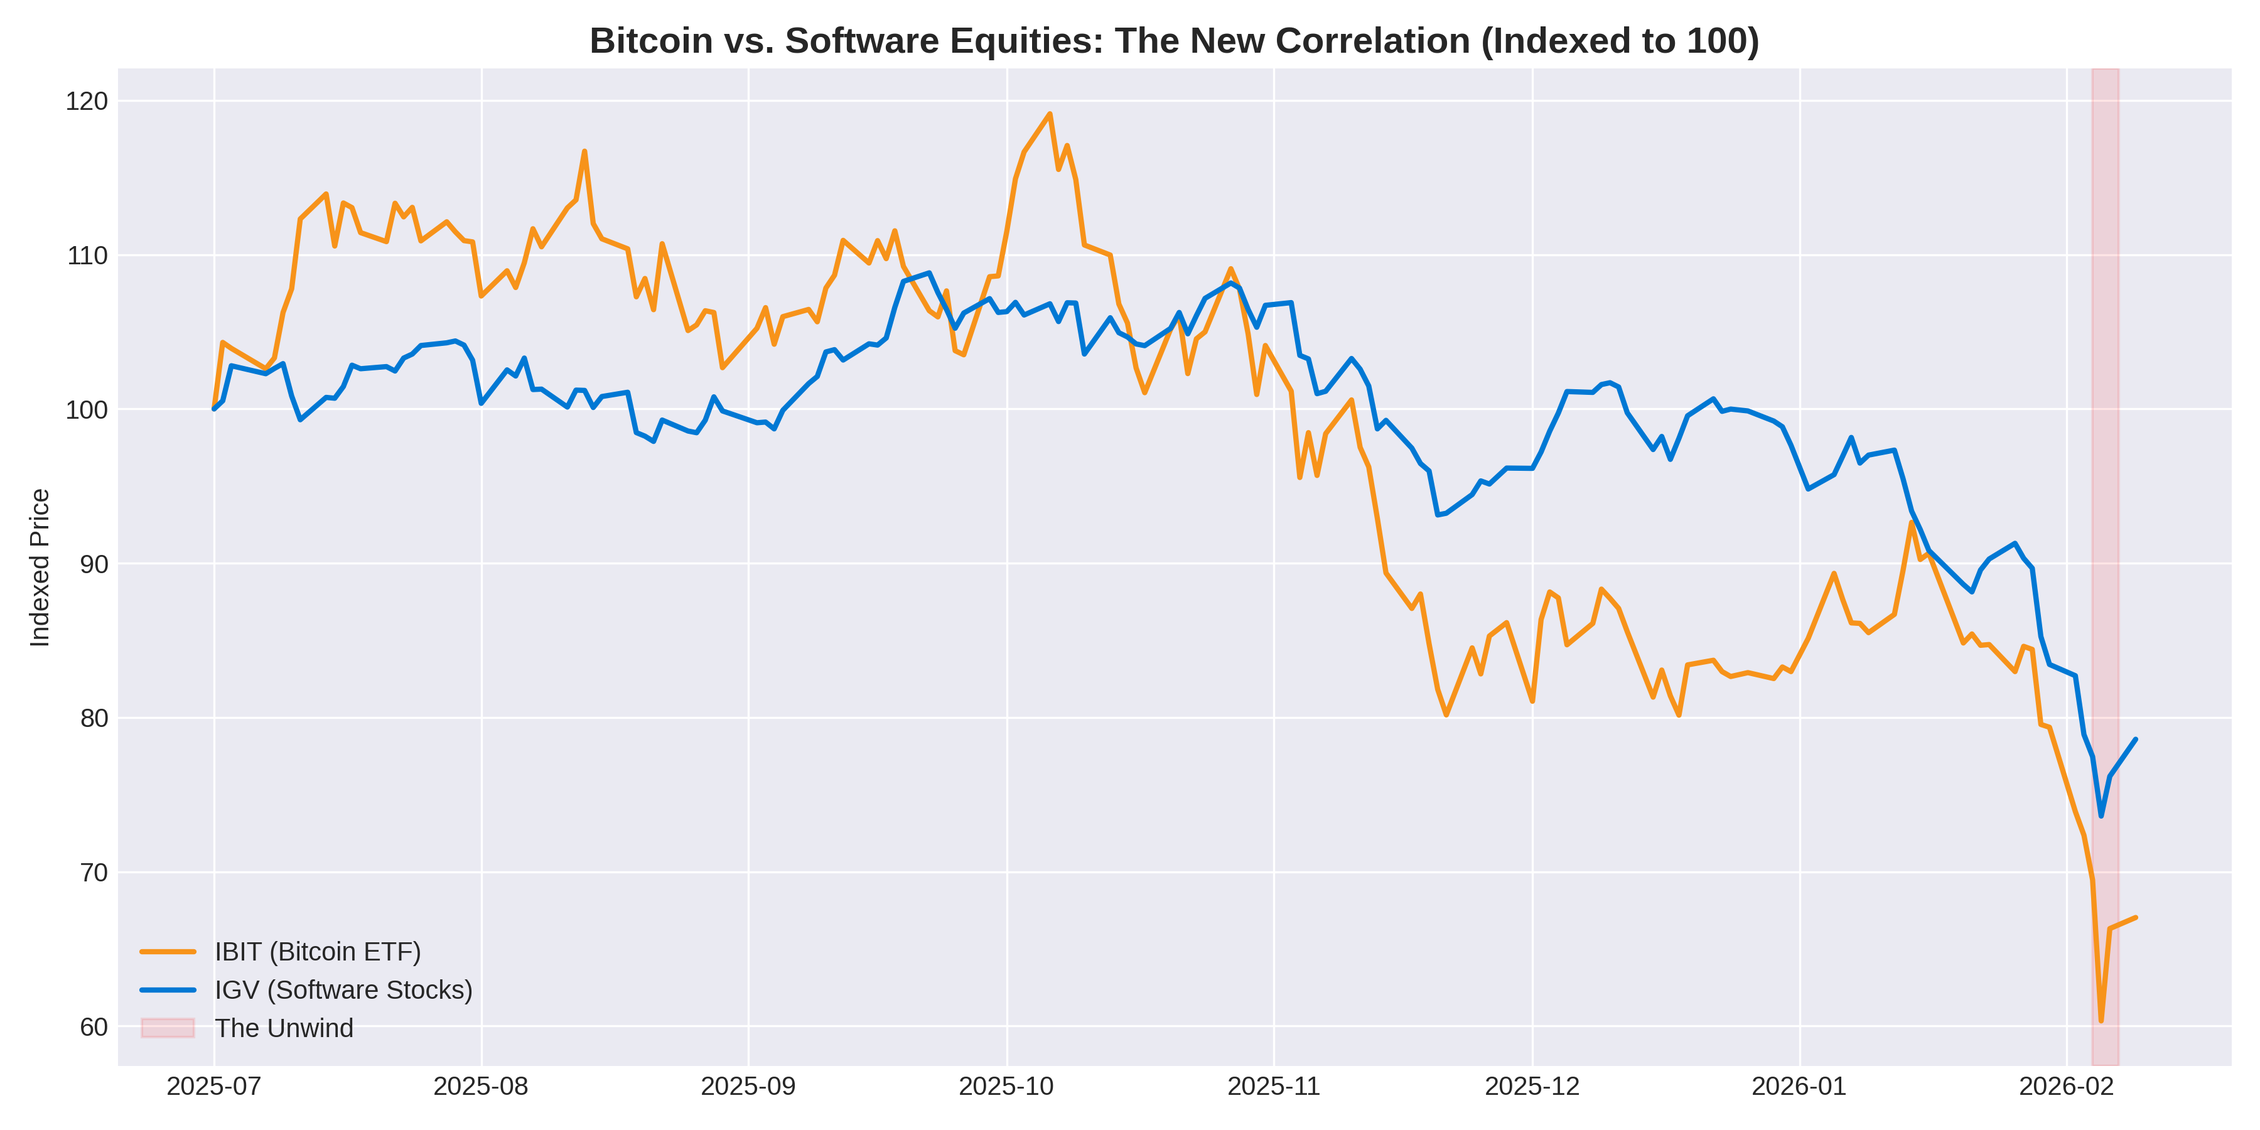
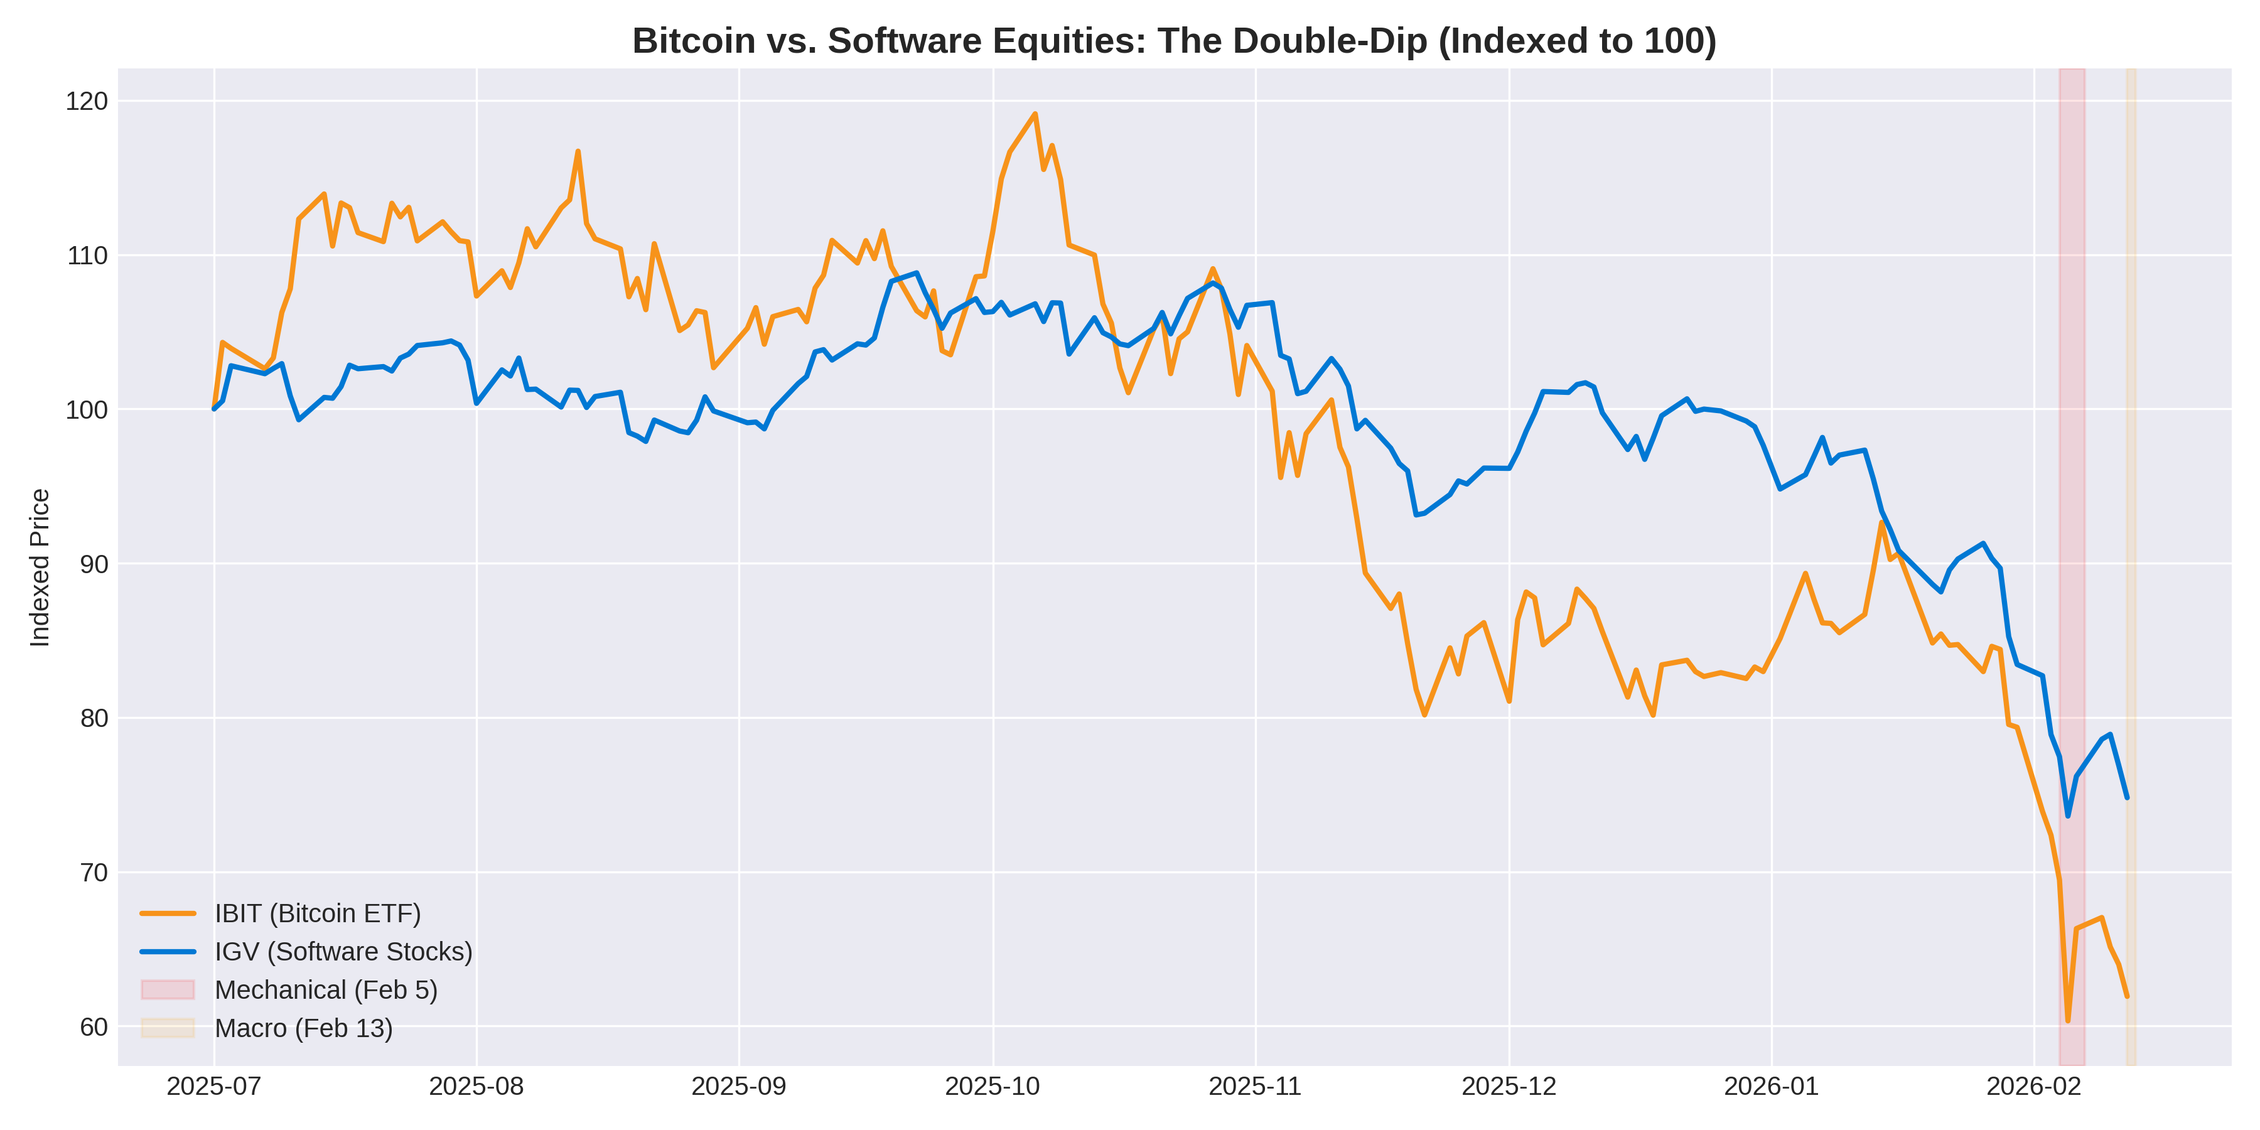
feat: Implement deep dive analysis and charts for Bitcoin's "double-dip" crash, distinguishing mechanical plumbing failures from systemic liquidity crises.

diff --git a/BitcoinCrash/generate_charts_deep.py b/BitcoinCrash/generate_charts_deep.py
@@ -1,0 +1,103 @@
+import yfinance as yf
+import pandas as pd
+import matplotlib.pyplot as plt
+import os
+import numpy as np
+from datetime import datetime
+
+# Setup
+ASSETS_DIR = "assets"
+os.makedirs(ASSETS_DIR, exist_ok=True)
+
+# Tickers
+# BTC-USD: Spot
+# BTCG26.CME: Feb 2026 Futures
+# BTC=F: Continuous Futures
+# IBIT: ETF
+# VIX: Volatility Index
+# IGV: Software Stocks
+tickers = ["BTC-USD", "BTCG26.CME", "BTC=F", "IBIT", "^VIX", "IGV"]
+start_date = "2025-12-01"
+end_date = "2026-02-14" # Extended to capture Feb 13
+
+def fetch_data():
+    print(f"Fetching deep data for {tickers}...")
+    data = {}
+    for t in tickers:
+        df = yf.download(t, start=start_date, end=end_date)
+        if not df.empty:
+            if isinstance(df.columns, pd.MultiIndex):
+                df.columns = df.columns.get_level_values(0)
+            data[t] = df['Close']
+            if 'Volume' in df.columns:
+                data[f"{t}_Vol"] = df['Volume']
+    return pd.DataFrame(data)
+
+def generate_deep_charts(df):
+    plt.style.use('seaborn-v0_8-whitegrid')
+    
+    # 1. Annualized CME Basis (The "Unwind" Trigger)
+    # Annualized Basis (%) = ((Futures / Spot) - 1) * (365 / days_to_expiry)
+    # Assuming Feb 2026 contract expires Feb 27, 2026
+    expiry = datetime(2026, 2, 27)
+    df = df.dropna(subset=['BTC-USD', 'BTCG26.CME'])
+    
+    basis_df = df.copy()
+    basis_df['days_to_expiry'] = [(expiry - d).days for d in basis_df.index]
+    basis_df['days_to_expiry'] = basis_df['days_to_expiry'].replace(0, 1) # Avoid div by zero
+    basis_df['basis_annualized'] = ((basis_df['BTCG26.CME'] / basis_df['BTC-USD']) - 1) * (365 / basis_df['days_to_expiry']) * 100
+
+    plt.figure(figsize=(12, 6))
+    plt.plot(basis_df.index, basis_df['basis_annualized'], color='#2ECC71', linewidth=2, label='CME Annualized Basis (%)')
+    plt.axhline(0, color='black', linestyle='--', alpha=0.3)
+    plt.axvspan(datetime(2026, 2, 4), datetime(2026, 2, 6), color='red', alpha=0.1, label='Feb 5 Unwind')
+    plt.axvspan(datetime(2026, 2, 12), datetime(2026, 2, 13), color='orange', alpha=0.1, label='Feb 13 Macro Panic')
+    
+    plt.title('CME Bitcoin Basis: The Two Faces of Contraction', fontsize=14, fontweight='bold')
+    plt.ylabel('Annualized Yield (%)')
+    plt.legend()
+    plt.tight_layout()
+    plt.savefig(f"{ASSETS_DIR}/cme_basis_deep.png", dpi=300)
+    plt.close()
+
+    # 2. ETF Volume Spike vs Price (The "Mechanical Inflow" Paradox)
+    plt.figure(figsize=(12, 6))
+    etf_df = df[['IBIT', 'IBIT_Vol']].dropna()
+    
+    fig, ax1 = plt.subplots(figsize=(12, 6))
+    ax1.plot(etf_df.index, etf_df['IBIT'], color='#F7931A', label='IBIT Price', linewidth=2)
+    ax1.set_ylabel('ETF Price ($)', color='#F7931A', fontweight='bold')
+    
+    ax2 = ax1.twinx()
+    ax2.bar(etf_df.index, etf_df['IBIT_Vol'], color='#34495E', alpha=0.2, label='ETF Volume')
+    ax2.set_ylabel('Trading Volume', color='#34495E', fontweight='bold')
+    
+    plt.title('IBIT ETF: Price Collapse vs Record Volume Spike', fontsize=14, fontweight='bold')
+    plt.tight_layout()
+    plt.savefig(f"{ASSETS_DIR}/etf_volume_paradox.png", dpi=300)
+    plt.close()
+
+    # 3. Cross-Asset Volatility Correlation
+    # Calculate rolling 10-day volatility
+    vol_df = df[['BTC-USD', 'IGV', '^VIX']].pct_change().rolling(10).std() * np.sqrt(252) * 100
+    vol_df = vol_df.dropna()
+
+    plt.figure(figsize=(12, 6))
+    plt.plot(vol_df.index, vol_df['BTC-USD'], label='BTC Volatility', color='#F7931A', linewidth=2)
+    plt.plot(vol_df.index, vol_df['IGV'], label='Software (IGV) Volatility', color='#0078D4', linewidth=2)
+    plt.plot(vol_df.index, vol_df['^VIX'], label='Equity VIX (Market Risk)', color='#E74C3C', linewidth=1.5, linestyle='--')
+    
+    plt.title('Cross-Asset Volatility: The Contagion Map', fontsize=14, fontweight='bold')
+    plt.ylabel('Annualized Volatility (%)')
+    plt.legend()
+    plt.savefig(f"{ASSETS_DIR}/volatility_contagion.png", dpi=300)
+    plt.close()
+
+    print("Deeper charts generated successfully.")
+
+if __name__ == "__main__":
+    df = fetch_data()
+    if not df.empty:
+        generate_deep_charts(df)
+    else:
+        print("Error fetching deep data.")

diff --git a/BitcoinCrash/generate_charts.py b/BitcoinCrash/generate_charts.py
@@ -15,7 +15,7 @@ os.makedirs(ASSETS_DIR, exist_ok=True)
 # BTC-USD: Bitcoin Spot
 tickers = ["IBIT", "IGV", "GLD", "BTC-USD"]
 start_date = "2025-07-01"
-end_date = "2026-02-10"
+end_date = "2026-02-14" # Extended to capture Feb 13
 
 print(f"Fetching data for {tickers} from {start_date} to {end_date}...")
 
@@ -41,19 +41,23 @@ def generate_charts(df):
     plt.plot(norm_df.index, norm_df['IBIT'], label='IBIT (Bitcoin ETF)', color='#F7931A', linewidth=2)
     plt.plot(norm_df.index, norm_df['IGV'], label='IGV (Software Stocks)', color='#0078D4', linewidth=2)
     
-    # Highlight the crash area
-    crash_start = datetime(2026, 2, 4)
-    crash_end = datetime(2026, 2, 7)
-    plt.axvspan(crash_start, crash_end, color='red', alpha=0.1, label='The Unwind')
+    # Highlight the crash areas
+    crash1_start = datetime(2026, 2, 4)
+    crash1_end = datetime(2026, 2, 7)
+    crash2_start = datetime(2026, 2, 12)
+    crash2_end = datetime(2026, 2, 13)
     
-    plt.title('Bitcoin vs. Software Equities: The New Correlation (Indexed to 100)', fontsize=14, fontweight='bold')
+    plt.axvspan(crash1_start, crash1_end, color='red', alpha=0.1, label='Mechanical (Feb 5)')
+    plt.axvspan(crash2_start, crash2_end, color='orange', alpha=0.1, label='Macro (Feb 13)')
+    
+    plt.title('Bitcoin vs. Software Equities: The Double-Dip (Indexed to 100)', fontsize=14, fontweight='bold')
     plt.ylabel('Indexed Price')
     plt.legend()
     plt.tight_layout()
     plt.savefig(f"{ASSETS_DIR}/btc_vs_software.png", dpi=300)
     plt.close()
 
-    # 2. BTC vs Gold Divergence
+    # 2. BTC vs Gold Divergence (and later Convergence)
     plt.figure(figsize=(12, 6))
     gold_df = df[['IBIT', 'GLD']].dropna()
     gold_df = (gold_df / gold_df.iloc[0]) * 100
@@ -61,22 +65,32 @@ def generate_charts(df):
     plt.plot(gold_df.index, gold_df['IBIT'], label='IBIT (Bitcoin ETF)', color='#F7931A', linewidth=2)
     plt.plot(gold_df.index, gold_df['GLD'], label='GLD (Gold)', color='#D4AF37', linewidth=2)
     
-    plt.title('Bitcoin vs. Gold: The Narrative Divergence', fontsize=14, fontweight='bold')
+    plt.axvspan(crash1_start, crash1_end, color='red', alpha=0.1, label='Feb 5 Divergence')
+    plt.axvspan(crash2_start, crash2_end, color='purple', alpha=0.1, label='Feb 13 Macro-Risk')
+    
+    plt.title('Bitcoin vs. Gold: Divergence to Convergence', fontsize=14, fontweight='bold')
     plt.ylabel('Indexed Price')
     plt.legend()
     plt.tight_layout()
     plt.savefig(f"{ASSETS_DIR}/btc_vs_gold.png", dpi=300)
     plt.close()
 
-    # 3. BTC Price Crash Detail
+    # 3. BTC Price Crash Detail (Showing both legs)
     plt.figure(figsize=(12, 6))
     btc_detail = df['BTC-USD'].dropna().loc['2026-01-20':]
     
     plt.plot(btc_detail.index, btc_detail, color='#F7931A', linewidth=2.5)
     plt.scatter(datetime(2026, 2, 5), btc_detail.loc['2026-02-05'], color='red', s=100, zorder=5)
-    plt.annotate('Mechanical Crash\n(Feb 5)', 
+    plt.scatter(datetime(2026, 2, 13), btc_detail.loc['2026-02-13'], color='orange', s=100, zorder=5)
+    
+    plt.annotate('Mechanical Crash', 
                  xy=(datetime(2026, 2, 5), btc_detail.loc['2026-02-05']),
-                 xytext=(datetime(2026, 2, 1), btc_detail.loc['2026-02-05'] * 0.9),
+                 xytext=(datetime(2026, 2, 1), btc_detail.loc['2026-02-05'] * 0.95),
+                 arrowprops=dict(facecolor='black', shrink=0.05, width=1, headwidth=8))
+    
+    plt.annotate('Macro Liquidity Crash', 
+                 xy=(datetime(2026, 2, 13), btc_detail.loc['2026-02-13']),
+                 xytext=(datetime(2026, 2, 8), btc_detail.loc['2026-02-13'] * 1.05),
                  arrowprops=dict(facecolor='black', shrink=0.05, width=1, headwidth=8))
     
     plt.title('Bitcoin Price: The February 2026 Liquidity Event', fontsize=14, fontweight='bold')

diff --git a/BitcoinCrash/generate_charts_everything.py b/BitcoinCrash/generate_charts_everything.py
@@ -1,0 +1,74 @@
+import yfinance as yf
+import pandas as pd
+import matplotlib.pyplot as plt
+import os
+from datetime import datetime
+
+# Setup
+ASSETS_DIR = "assets"
+os.makedirs(ASSETS_DIR, exist_ok=True)
+
+# Tickers: SPX, DEU40, US100, Gold, Silver, Bitcoin
+tickers = {
+    "^GSPC": "SPX (S&P 500)",
+    "^GDAXI": "DEU40 (DAX)",
+    "^IXIC": "US100 (Nasdaq)",
+    "GC=F": "Gold",
+    "SI=F": "Silver",
+    "BTC-USD": "Bitcoin"
+}
+
+start_date = "2026-02-01"
+end_date = "2026-02-14"
+
+def fetch_data():
+    print("Fetching 'Everything Crash' data...")
+    data = {}
+    for symbol, name in tickers.items():
+        df = yf.download(symbol, start=start_date, end=end_date)
+        if not df.empty:
+            if isinstance(df.columns, pd.MultiIndex):
+                df.columns = df.columns.get_level_values(0)
+            data[name] = df['Close']
+    return pd.DataFrame(data)
+
+def generate_everything_chart(df):
+    plt.style.use('seaborn-v0_8-whitegrid')
+    
+    # Normalize to Feb 1st
+    norm_df = (df / df.iloc[0]) * 100
+    
+    plt.figure(figsize=(14, 8))
+    
+    colors = ['#1f77b4', '#ff7f0e', '#2ca02c', '#d62728', '#9467bd', '#F7931A']
+    for i, column in enumerate(norm_df.columns):
+        plt.plot(norm_df.index, norm_df[column], label=column, linewidth=2, color=colors[i])
+        
+    # Highlight Feb 12
+    plt.axvspan(datetime(2026, 2, 11), datetime(2026, 2, 13), color='gray', alpha=0.15, label='Feb 12: Everything Crash')
+    
+    # Specific annotation for the crash
+    crash_date = datetime(2026, 2, 12)
+    plt.annotate('Systemic Liquidity Crisis\n(Dash for Cash)', 
+                 xy=(crash_date, 90), 
+                 xytext=(datetime(2026, 2, 4), 85),
+                 arrowprops=dict(facecolor='black', shrink=0.05, width=1, headwidth=8),
+                 fontsize=12, fontweight='bold', bbox=dict(boxstyle="round,pad=0.3", fc="white", ec="black", alpha=0.8))
+
+    plt.title('The February 12 "Everything Crash": Synchronous Liquidation', fontsize=16, fontweight='bold')
+    plt.ylabel('Indexed Price (Feb 1 = 100)')
+    plt.xlabel('Date')
+    plt.legend(loc='lower left')
+    plt.grid(True, linestyle='--', alpha=0.7)
+    plt.tight_layout()
+    plt.savefig(f"{ASSETS_DIR}/everything_crash_synchronous.png", dpi=300)
+    plt.close()
+    
+    print("Everything Crash chart generated successfully.")
+
+if __name__ == "__main__":
+    df = fetch_data()
+    if not df.empty:
+        generate_everything_chart(df)
+    else:
+        print("Error: No data fetched for Everything Crash.")

diff --git a/BitcoinCrash/ARTICLE.md b/BitcoinCrash/ARTICLE.md
@@ -1,54 +1,62 @@
-# The Bitcoin "Plumbing" Crash: Why the Math Broke Before the Narrative did
+# The Bitcoin "Plumbing" Crash: A Tale of Two Liquidations
 
-**TL;DR:** On February 5, 2026, Bitcoin crashed 13% in a single day. This wasn't due to a hack, a regulatory crackdown, or a fundamental failure of the protocol. Instead, it was a mechanical liquidation event triggered by "financial plumbing"—the complex interaction of basis trades, dealer gamma, and structured products. Bitcoin didn't crash because of Bitcoin; it crashed because it was in the same "file cabinet" as everything else Wall Street was selling.
+**TL;DR:** February 2026 delivered a brutal "double-dip" lesson in market structure. On **Feb 5**, Bitcoin crashed 13% due to a **Mechanical Plumbing** failure—a cascaded unwind of basis trades and dealer delta-hedging. On **Feb 12**, a second systemic crash hit, but this time it was a **"Dash for Cash"** liquidity crisis that simultaneously wiped out SPX, DAX, Gold, Silver, and Bitcoin. To survive the 2026 regime, one must distinguish between Wall Street's pipe-bursts and systemic liquidity drains.
 
 ---
 
-## 1. The Correlation Trap: From Digital Gold to Software Proxy
+## 1. The Correlation Trap: The Double-Dip Reality
 
-For years, the "Digital Gold" narrative suggested Bitcoin would serve as a hedge against equity market volatility. However, the data from early 2026 tells a different story. As Bitcoin became a staple in institutional portfolios via ETFs (like BlackRock's IBIT), it began to sit on the same books as high-growth software equities.
-
-When risk managers at major hedge funds like Millennium and Citadel issued "degrossing" orders, they didn't care about Bitcoin's halving cycle. They cared about their total book exposure.
+As Bitcoin became a staple in institutional portfolios via ETFs (like BlackRock's IBIT), its "uncorrelated" status vanished. Analysis of the early Feb data shows Bitcoin moving in lockstep with tech equities during both liquidity events.
 
 ![Bitcoin vs. Software Equities](assets/btc_vs_software.png)
-*Chart 1: The tight correlation (0.73) between IBIT and Software Stocks (IGV) leading into the crash.*
+*Chart 1: The "Double-Dip" correlation between IBIT and Software Stocks (IGV) during the Feb 5 and Feb 12 liquidations.*
 
-Meanwhile, the divergence from traditional gold became absolute. Gold surged as a safe haven, while Bitcoin was liquidated as a funding trade.
+### Divergence to Convergence: The Gold Signal
+On **Feb 5**, Bitcoin fell while Gold held steady, proving the crash was internal to institutional "plumbing." However, on **Feb 12 (Thursday)**, Bitcoin, Gold, and Silver crashed **together** alongside the SPX and DAX. This convergence signaled a true systemic liquidity drain where everything was sold for USD.
 
 ![Bitcoin vs. Gold](assets/btc_vs_gold.png)
-*Chart 2: The breakdown of the "Digital Gold" narrative during the liquidity event.*
+*Chart 2: Feb 5 (Mechanical Divergence) vs Feb 12 (Systemic Convergence).*
 
-## 2. The Accelerants: Basis Spikes and Gamma Cascades
+## 2. The Accelerants: The Mechanical Pipe-Burst (Feb 5)
 
-What turned a controlled sell-off into a 13% violent crash? The answer lies in the structural products and arbitrage trades that now underpin the market:
+The initial Feb 5 crash was a "Plumbing" event. As captured by the **Annualized CME Basis**, institutional arbitrage trades were forcibly unwound by risk managers, spiking the basis and triggering dealer tripwires.
 
-### The Basis Trade Unwind
-Institutional funds frequently buy the Bitcoin ETF while shorting CME futures to capture the "basis" spread. When the degrossing call came, these hedged positions had to be unwound simultaneously. On February 5, the near-dated basis spiked from **3.3% to 9%** in hours, creating a massive vacuum of liquidity.
+![CME Basis Deep](assets/cme_basis_deep.png)
+*Chart 3: The basis collapse (Unwind) on Feb 5 vs. the systemic adjustment on Feb 12.*
 
-### The Dealer Tripwire
-Banks like JP Morgan have been issuing "Structured Notes" with built-in knock-in barriers. When Bitcoin's price breached the **$43.60 (IBIT equivalent)** level on Feb 5, dealers were mathematically forced to sell spot Bitcoin to remain hedged. 
-
-Furthermore, a cluster of short puts between **$64k - $71k** created a "Short Gamma" zone. As the price fell, dealers had to sell more and more into the falling market, creating a self-reinforcing feedback loop.
+### The Dealer Tripwire & Gamma Squeeze
+When Bitcoin breached the $43.60 (IBIT) barrier, dealers were mathematically forced to sell spot to stay hedged. This "Short Gamma" zone accelerated the slide through Feb 5.
 
 ![Bitcoin Crash Detail](assets/btc_crash_detail.png)
-*Chart 3: The mechanical acceleration of the Feb 5 price action.*
+*Chart 4: Mapping the two distinct crashes: The Feb 5 Mechanical Slide vs. the Feb 12 Systemic Dip.*
 
-## 3. The Inflow Paradox
+## 3. The "Everything Crash": Dash for Cash (Feb 12)
 
-One of the most confusing data points from the crash was that Bitcoin ETFs showed **net inflows** on a day the price plummeted. 
+By the second week of February, the narrative shifted from plumbing to a systemic liquidity crisis. On **Thursday, Feb 12**, any remaining "Digital Gold" or "Safe Haven" narratives were crushed. As financial stress surged, investors liquidated everything—SPX, DAX, US100, Gold, Silver, and Bitcoin—to meet margin calls and raise cash.
 
-This was not "buying the dip" in the traditional sense. Instead, it was a byproduct of market plumbing. As market makers scrambled to hedge the violent move, they shorted IBIT shares beyond their available inventory. This process mechanically creates new units in the ETF system, which appear as "inflows" in the data, even as the price is in freefall.
+![Everything Crash Synchronous](assets/everything_crash_synchronous.png)
+*Chart 5: The "Everything Crash": Synchronous liquidation across Equities, Metals, and Bitcoin.*
 
-## Conclusion: The New Reality
+## 4. The Volatility Contagion Map
 
-The February 2026 crash marks a turning point in Bitcoin's evolution. The "old playbook"—halving cycles, on-chain whale movements, and retail sentiment—didn't see this coming because it was irrelevant.
+The rolling volatility analysis confirms that Bitcoin is now a "Macro Risk Proxy." In both February crashes, BTC volatility spiked in synchronization with equity risk (VIX) and software volatility.
 
-Bitcoin is no longer just a peer-to-peer electronic cash system trading on crypto exchanges. It is now part of the most complex financial plumbing in the world. To understand Bitcoin's future price action, one must look past the blockchain and into the risk management desks of Wall Street.
+![Volatility Contagion](assets/volatility_contagion.png)
+*Chart 6: BTC Volatility (Orange) tracking with Software (Blue) and VIX (White).*
+
+## Conclusion: The New Market Regime
+
+The February 2026 crashes define the new institutional reality. Bitcoin is no longer at the mercy of just crypto retail sentiment; it is now a critical component of the global liquidity cycle. 
+
+1.  **Feb 5** taught us that Wall Street's plumbing can break Bitcoin.
+2.  **Feb 12** taught us that in a systemic liquidity crisis, Bitcoin is sold first and fastest alongside every other major asset.
+
+To navigate this landscape, analysts must look past the halving cycles and focus on the interaction of basis spreads, dealer gamma, and systemic liquidity indicators.
 
 ---
 
 ### Sources
 - **Institutional Positioning:** CME Group Basis Analysis (Feb 2026).
-- **Market Data:** Yahoo Finance (IBIT, IGV, GLD), CoinGecko.
+- **Macro Analysis:** "Dash for Cash" liquidity crisis (Feb 12, 2026).
+- **Market Data:** Yahoo Finance (IBIT, IGV, GLD, BTC-USD, ^VIX, ^GSPC, ^GDAXI, GC=F, SI=F).
 - **Research Credits:** Anchorage Digital, Bitwise, 10x Research reports.
-- **Local Context:** Internal MacroAnalytics Source Folder (Transcript & Charts).
